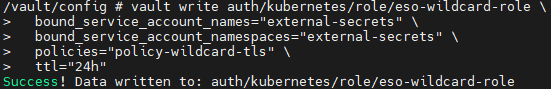
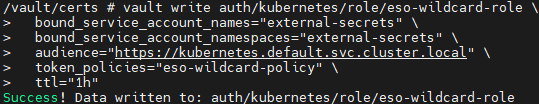
token_reviewer_jwt 토큰 값 생성 및 ESO용 Role 생성 화면 이미지 수정

diff --git a/_posts/Docker/2025-11-07-[Docker] - Vault를 통한 이미 발급된 인증서 적용하기.md b/_posts/Docker/2025-11-07-[Docker] - Vault를 통한 이미 발급된 인증서 적용하기.md
@@ -97,6 +97,8 @@ vault auth enable kubernetes
 vault write auth/kubernetes/config \
   kubernetes_host="https://<K8S_API_HOST>:443" \
   kubernetes_ca_cert=@/var/run/secrets/kubernetes.io/serviceaccount/ca.crt
+  disable_iss_validation=true \
+  disable_local_ca_jwt=true
 ```
 
 * * *
@@ -113,8 +115,24 @@ cat /etc/kubernetes/pki/ca.crt
 ```bash
 vault write auth/kubernetes/config \
   kubernetes_host="https://<API_SERVER_IP>:6443" \
-  kubernetes_ca_cert=@/vault/config/k8s-ca.crt
+  kubernetes_ca_cert=@/vault/config/k8s-ca.crt \
+  disable_local_ca_jwt=true \
+  token_reviewer_jwt=@/vault/config/reviewer.jwt
 ```
+
+> kubernetes_ca_cert의 값은 **/etc/kubernetes/pki/ca.crt** 값이다.
+{: .prompt-info}
+
+* * *
+
+- **token_reviewer_jwt** 값은 아래 명령어를 통해 확인한다.
+
+```bash
+# --duration 옵션을 통해 JWT의 유효기간을 지정할 수 있다.
+$ kubectl -n kube-system create token vault-auth --duration=720h > vault-auth.jwt
+```
+> token_reviewer_jwt의 값은 Vault가 Kubernetes API에 TokenReview 요청을 보낼 때 사용할 **리뷰용 ServiceAccount JWT**이다
+{: .prompt-info}
 
 ![vault k8s 인증서 적용](/assets/img/post/docker/vault%20k8s%20인증서%20적용.png)
 
